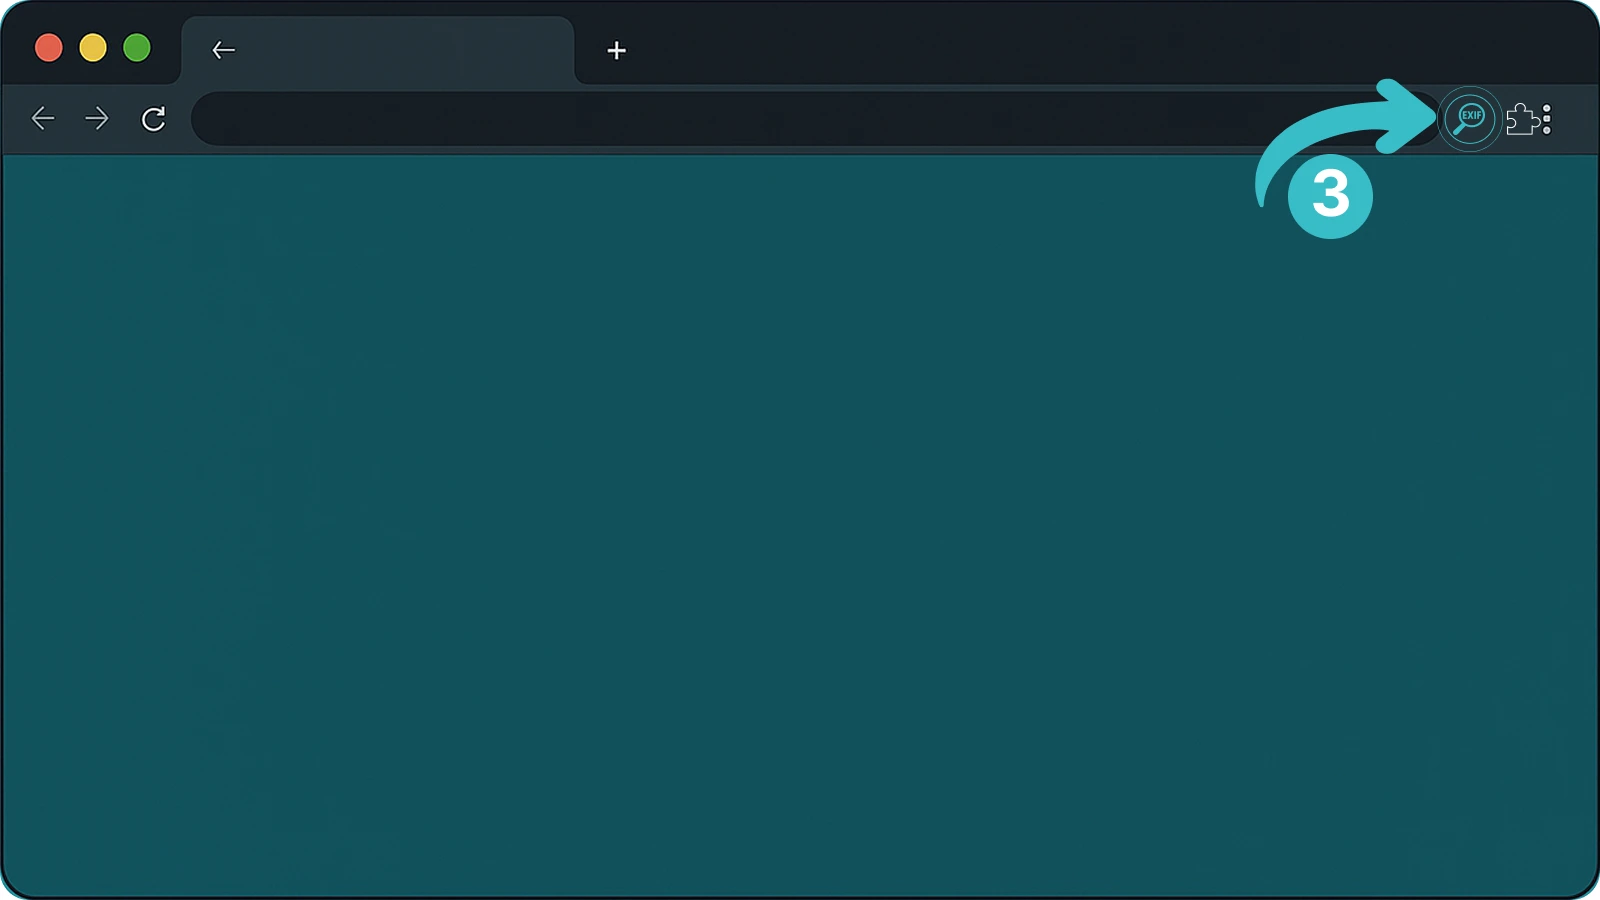
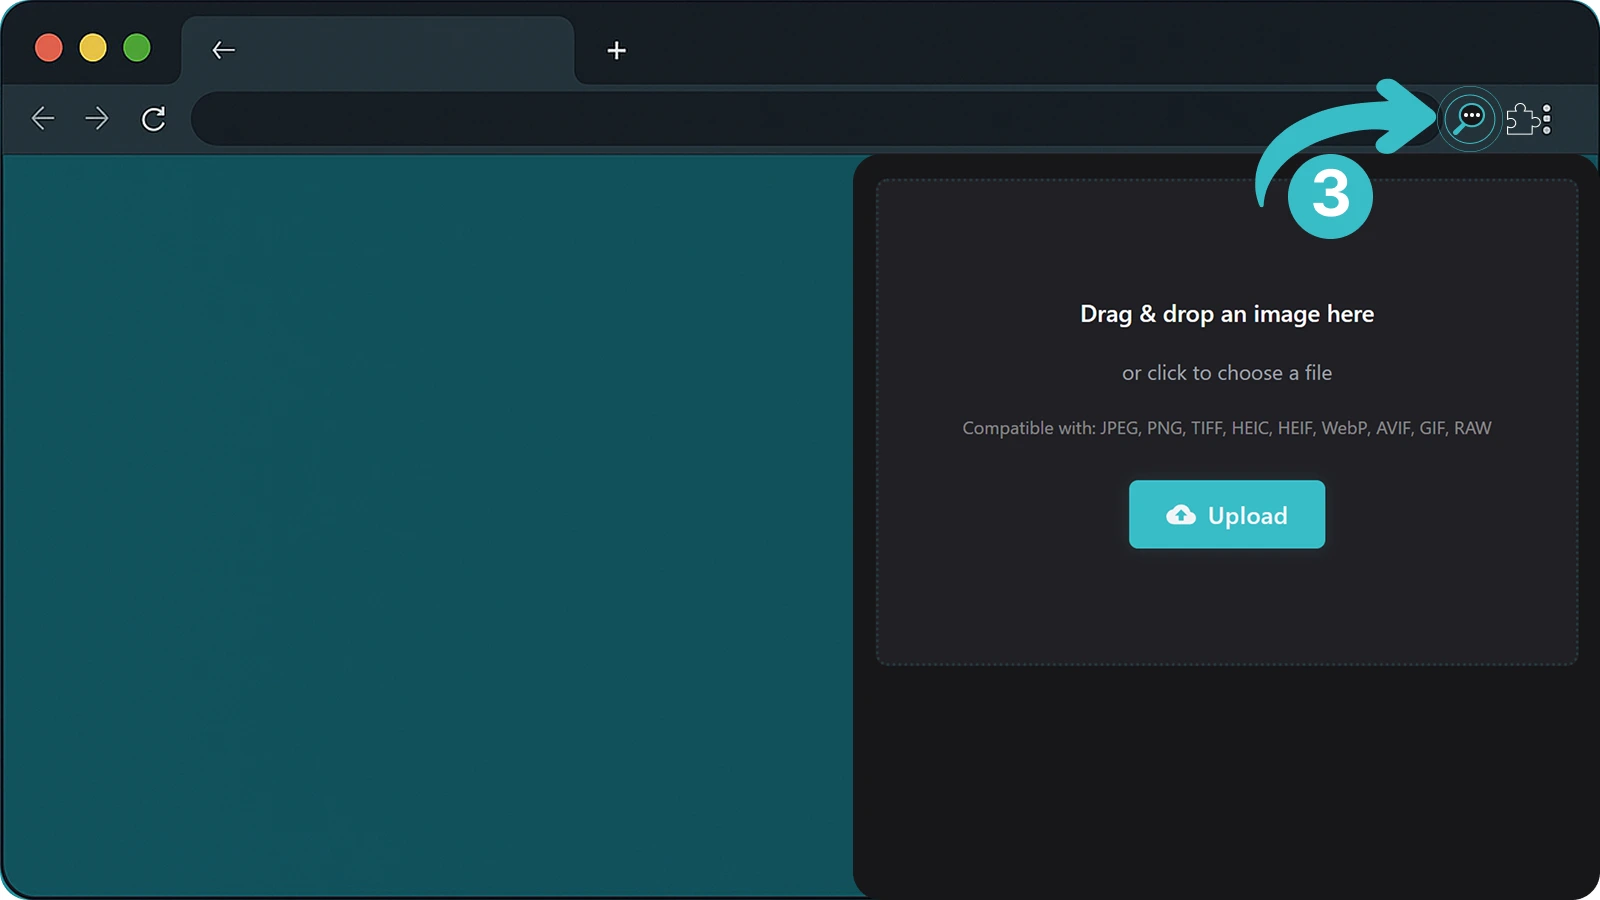
Update onboarding screens, add 3 step

diff --git a/welcome/index.html b/welcome/index.html
@@ -70,6 +70,23 @@
             />
           </figure>
         </li>
+
+        <li class="step">
+          <h2 class="step-title">
+            3. Or right-click an image on the page and choose View Image Metadata from the menu.
+          </h2>
+          <figure class="step-figure step-figure--onboarding">
+            <img
+              class="step-onboarding-img"
+              src="../assets/Browser_Welcome_3.webp"
+              width="1600"
+              height="900"
+              alt="Alternative: right-click an image on the page and open Image Metadata Viewer from the context menu."
+              loading="lazy"
+              decoding="async"
+            />
+          </figure>
+        </li>
       </ol>
     </main>
 

diff --git a/public/styles.css b/public/styles.css
@@ -232,7 +232,7 @@ body {
   position: relative;
   z-index: 1;
   flex-shrink: 0;
-  padding: 2rem 1.25rem 2.5rem;
+  padding: 0.85rem clamp(1rem, 4vw, 2.5rem);
   text-align: center;
   border-top: 1px solid rgba(255, 255, 255, 0.06);
 }
@@ -240,18 +240,18 @@ body {
 .site-footer p {
   margin: 0 auto;
   max-width: 44em;
-  font-size: 0.9375rem;
-  line-height: 1.65;
+  font-size: 0.875rem;
+  line-height: 1.5;
   color: var(--color-text-tertiary);
 }
 
 .site-footer > p:first-child {
-  margin-bottom: 0.75rem;
+  margin-bottom: 0.35rem;
 }
 
 .site-footer-version {
   margin: 0 auto !important;
-  font-size: 0.8125rem;
+  font-size: 0.75rem;
   color: rgba(255, 255, 255, 0.32);
   letter-spacing: 0.02em;
 }
